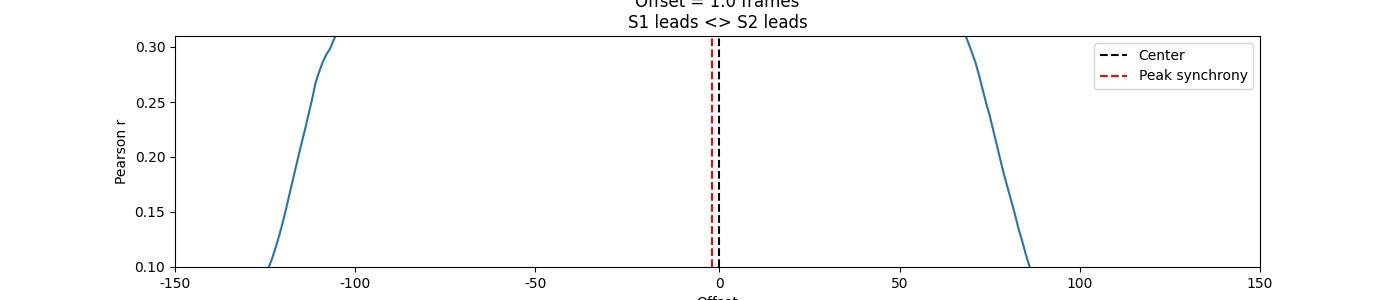
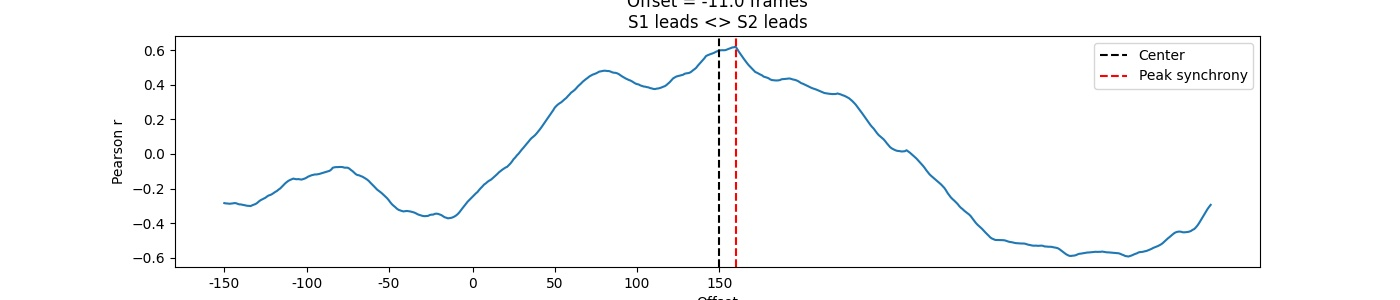
yes

diff --git a/legtest.py b/legtest.py
@@ -1,4 +1,6 @@
+from os import terminal_size
 from matplotlib.text import OffsetFrom
+from numpy.core.arrayprint import printoptions
 import pandas as pd
 import requests 
 import plotly.graph_objects as go
@@ -64,7 +66,8 @@ def plot_chart(coin1,coinName1="" ,coin2=None ,coinName2=""):
 ###############################################################################################
 ####################### ACTUAL CODE ######################
 ###############################################################################################
-show_plots= False
+
+show_plots= True # render or dont render plots
 
 time = 30
 rand_coin_name = "algorand" 
@@ -72,6 +75,8 @@ rand_coin_name = "algorand"
 #get bitcoin and etherium data 
 main_coin_dict = get_main_coins(time=time)
 btc_df = main_coin_dict["bitcoin"]
+btc_df["scaled_price"] = btc_df["scaled_price"].shift(10)
+btc_df.dropna()
 eth_df = main_coin_dict["ethereum"]
 
 #get coin to compare 
@@ -81,20 +86,8 @@ rand_coin_df = get_coin_by_name(rand_coin_name,time=time)
 plot_chart(btc_df,"bitcoin",rand_coin_df,rand_coin_name)
 
 
-#calculate cross correlation
-corr1 = sm.tsa.stattools.ccf(btc_df["scaled_price"], rand_coin_df["scaled_price"], adjusted=False)
-corr2 = sm.tsa.stattools.ccf(rand_coin_df["scaled_price"], btc_df["scaled_price"], adjusted=False)
-
-print("max corr1",max(corr1))
-print("max corr2",max(corr2))
-
-
-if max(corr1) >= max(corr2):
-    result = np.where(corr1 == max(corr1) )
-else:
-    result = np.where(corr2 == max(corr2))
-
-print(corr1[result])
+#Plot haängt von lag ab und x achse sind indexes in der liste 
+#DYNAMISCH AUSPROGRAMIIEREN 
 
 d1 = btc_df['scaled_price']
 d2 = rand_coin_df['scaled_price']
@@ -106,10 +99,11 @@ f,ax=plt.subplots(figsize=(14,3))
 ax.plot(rs)
 ax.axvline(np.ceil(len(rs)/2),color='k',linestyle='--',label='Center')
 ax.axvline(np.argmax(rs),color='r',linestyle='--',label='Peak synchrony')
-ax.set(title=f'Offset = {offset} frames\nS1 leads <> S2 leads',ylim=[.1,.31],xlim=[0,301], xlabel='Offset',ylabel='Pearson r')
+ax.set(title=f'Offset = {offset} frames\nS1 leads <> S2 leads', xlabel='Offset',ylabel='Pearson r')
 ax.set_xticks([0, 50, 100, 151, 201, 251, 301])
 ax.set_xticklabels([-150, -100, -50, 0, 50, 100, 150])
 
+print(offset)
 plt.legend()
 f.show()
 plt.savefig("./test.jpg")
